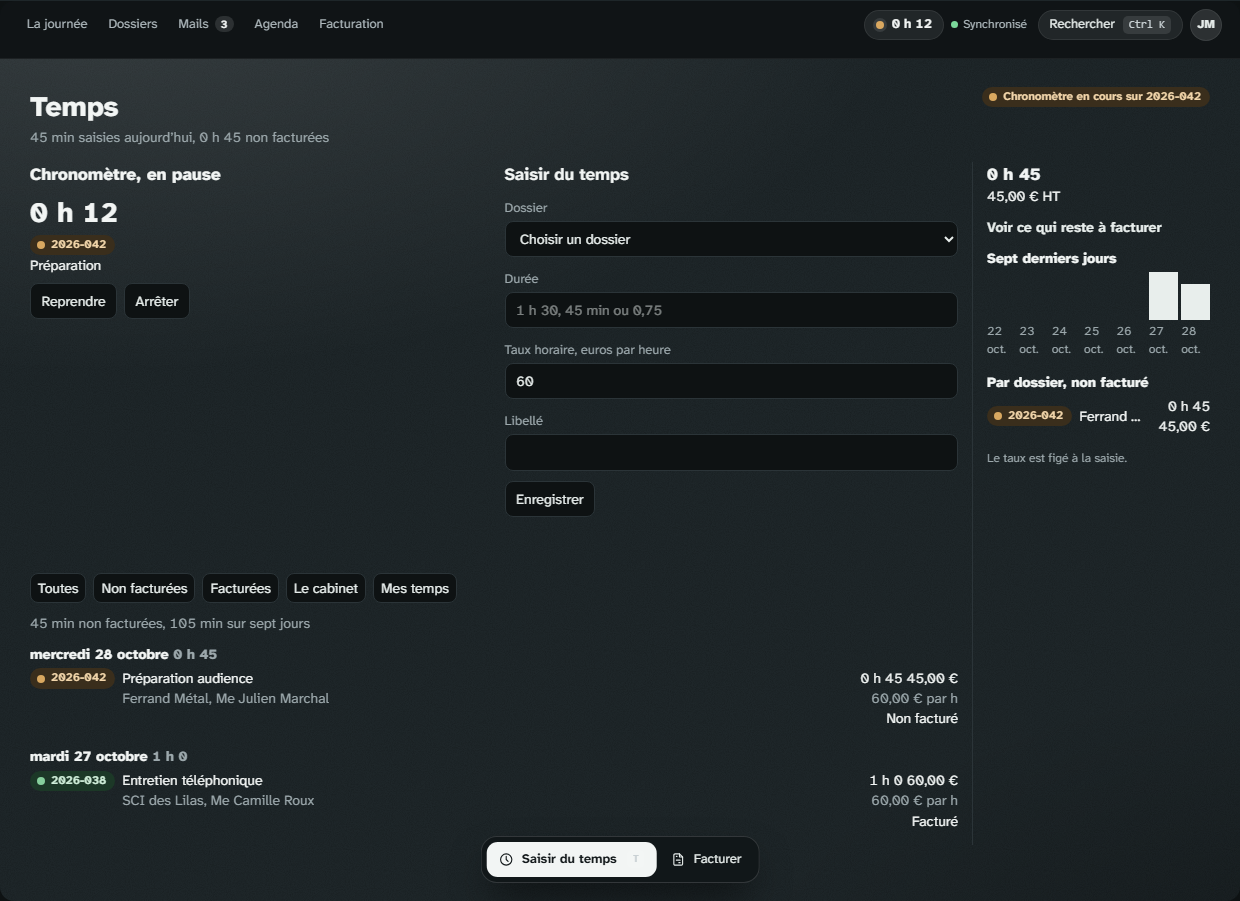
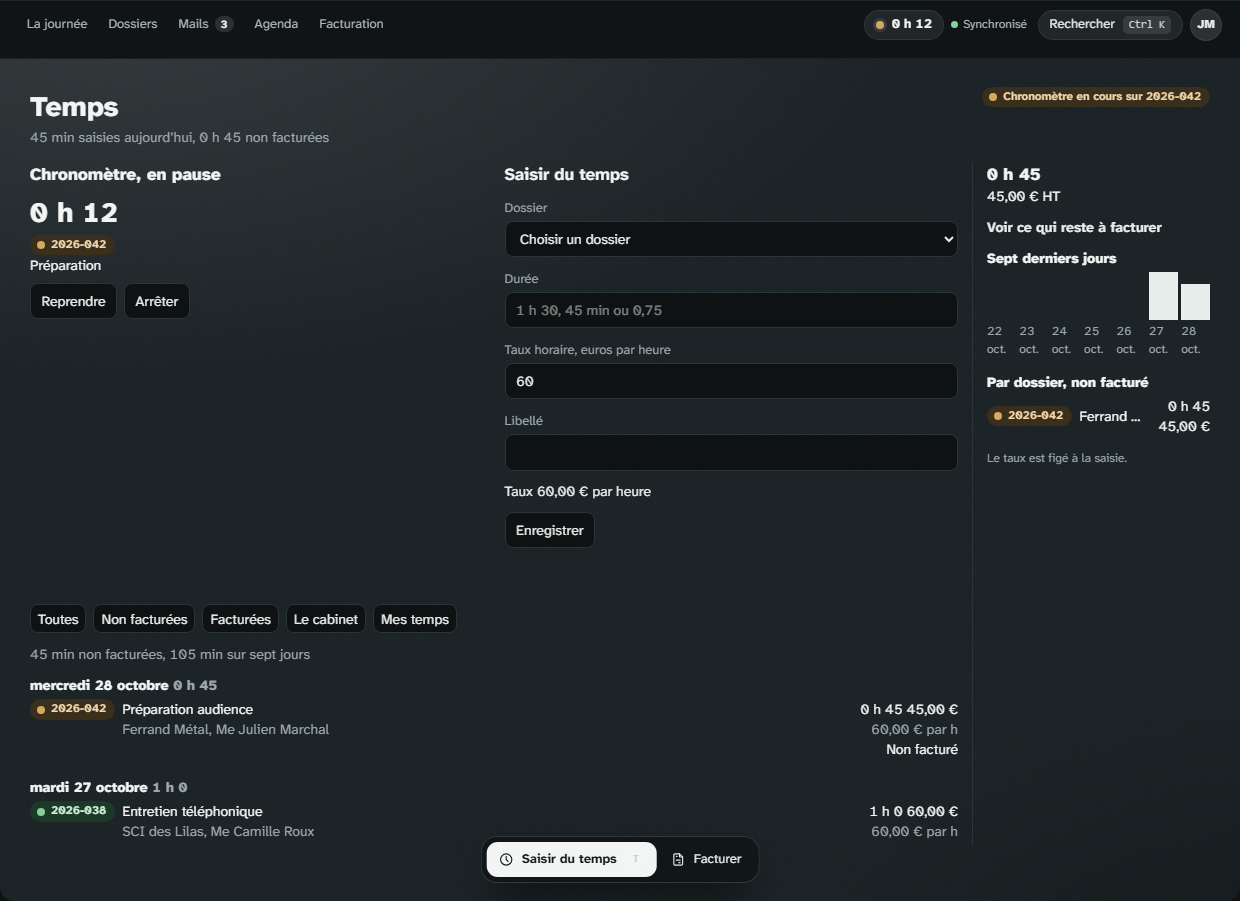
poste: la saisie de temps montre le taux avant la duree.

diff --git a/apps/poste/src/facturation/FormulaireTemps.tsx b/apps/poste/src/facturation/FormulaireTemps.tsx
@@ -1,4 +1,4 @@
-import { useEffect, useState } from "react";
+import { useEffect, useRef, useState } from "react";
 import { formatMontant } from "@/lib/format";
 import { lireDuree } from "@/facturation/lireDuree";
 import type { SubmitEvent } from "react";
@@ -49,19 +49,29 @@ export function FormulaireTemps({
   const [dossiers, setDossiers] = useState<DossierOption[]>([]);
   const [tauxSuggere, setTauxSuggere] = useState(6_000);
   const [dossierChoisi, setDossierChoisi] = useState(dossierIdPrefere ?? "");
-  const [apercu, setApercu] = useState<{ minutes: number; ht: number; taux: number } | null>(null);
+  const [apercu, setApercu] = useState<{ minutes: number | null; ht: number | null; taux: number } | null>({
+    minutes: null,
+    ht: null,
+    taux: 6_000,
+  });
+  const tauxTouche = useRef(false);
 
   function relireApercu(formulaire: HTMLFormElement) {
+    tauxTouche.current = true;
     const donnees = new FormData(formulaire);
     const saisie = donnees.get("minutes");
     const minutes = lireDuree(typeof saisie === "string" ? saisie : "");
     const tauxBrut = donnees.get("taux_euros");
     const taux = centimesDepuisEuros(typeof tauxBrut === "string" ? tauxBrut : "");
-    if (minutes === null || taux === null) {
+    if (taux === null) {
       setApercu(null);
       return;
     }
-    setApercu({ minutes, ht: htTempsCentimes(minutes, taux), taux });
+    setApercu({
+      minutes,
+      ht: minutes === null ? null : htTempsCentimes(minutes, taux),
+      taux,
+    });
   }
 
   useEffect(() => {
@@ -73,7 +83,10 @@ export function FormulaireTemps({
       );
       if (!annule) setDossiers(lignes);
       const taux = await tauxHoraireParDefaut(database);
-      if (!annule) setTauxSuggere(taux);
+      if (!annule && !tauxTouche.current) {
+        setTauxSuggere(taux);
+        setApercu({ minutes: null, ht: null, taux });
+      }
     }
     void charger();
     const timer = window.setInterval(() => {
@@ -272,9 +285,11 @@ export function FormulaireTemps({
       />
       {apercu !== null ? (
         <p className="mb-3 text-encre" data-testid="temps-apercu">
-          {fr(
-            `${String(apercu.minutes)} min, ${formatMontant(apercu.ht)}, taux ${formatMontant(apercu.taux)} par heure`,
-          )}
+          {apercu.minutes !== null && apercu.ht !== null
+            ? fr(
+                `${String(apercu.minutes)} min, ${formatMontant(apercu.ht)}, taux ${formatMontant(apercu.taux)} par heure`,
+              )
+            : fr(`Taux ${formatMontant(apercu.taux)} par heure`)}
         </p>
       ) : null}
       <button

diff --git a/JOURNAL.md b/JOURNAL.md
@@ -88,4 +88,6 @@ Synthèse au 28/10/2026 (archives : `docs/journal/phase-0.md`, `phase-1.md`, `ph
 
 - **Finition, bouton Enregistrer (28/10).** La saisie de temps a un bouton « Enregistrer ». « Valider » n'apparaît qu'une fois le brouillon écrit ; `s9-poste-tauri` le clique par son identifiant. `node tests/recette/coque-app.mjs --captures` exit 0. eslint et typecheck : exit 0.
 
-**Prochaine action.** L'aperçu du montant n'apparaît qu'une fois la durée saisie. Le jalon n'est pas coché.
+- **Finition, aperçu du taux (28/10).** Avant toute durée, la saisie affiche le taux (« Taux 60,00 € par heure »). Le montant s'y ajoute dès que la durée se lit. `node tests/recette/coque-app.mjs --captures` exit 0. eslint et typecheck : exit 0.
+
+**Prochaine action.** La preuve visuelle commune reste un refus (fiche d'agenda sans lieu, pas de montant encaissé). Le jalon n'est pas coché.
